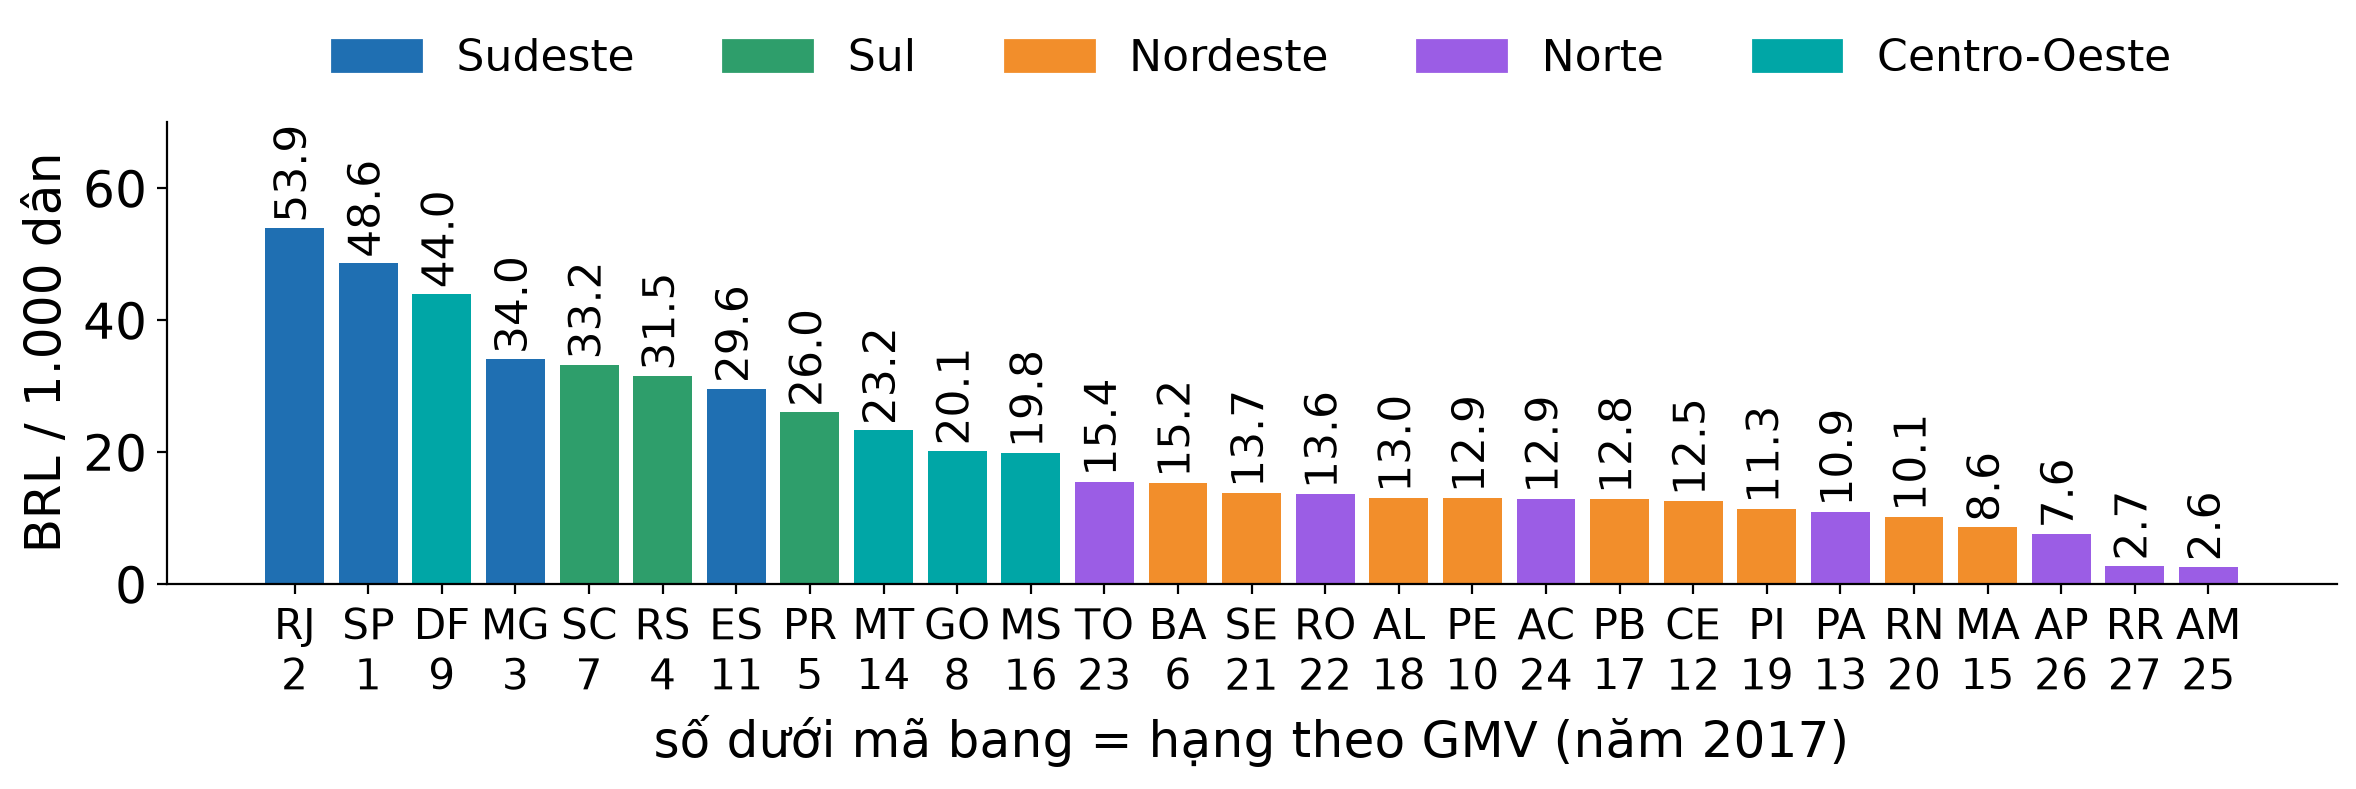
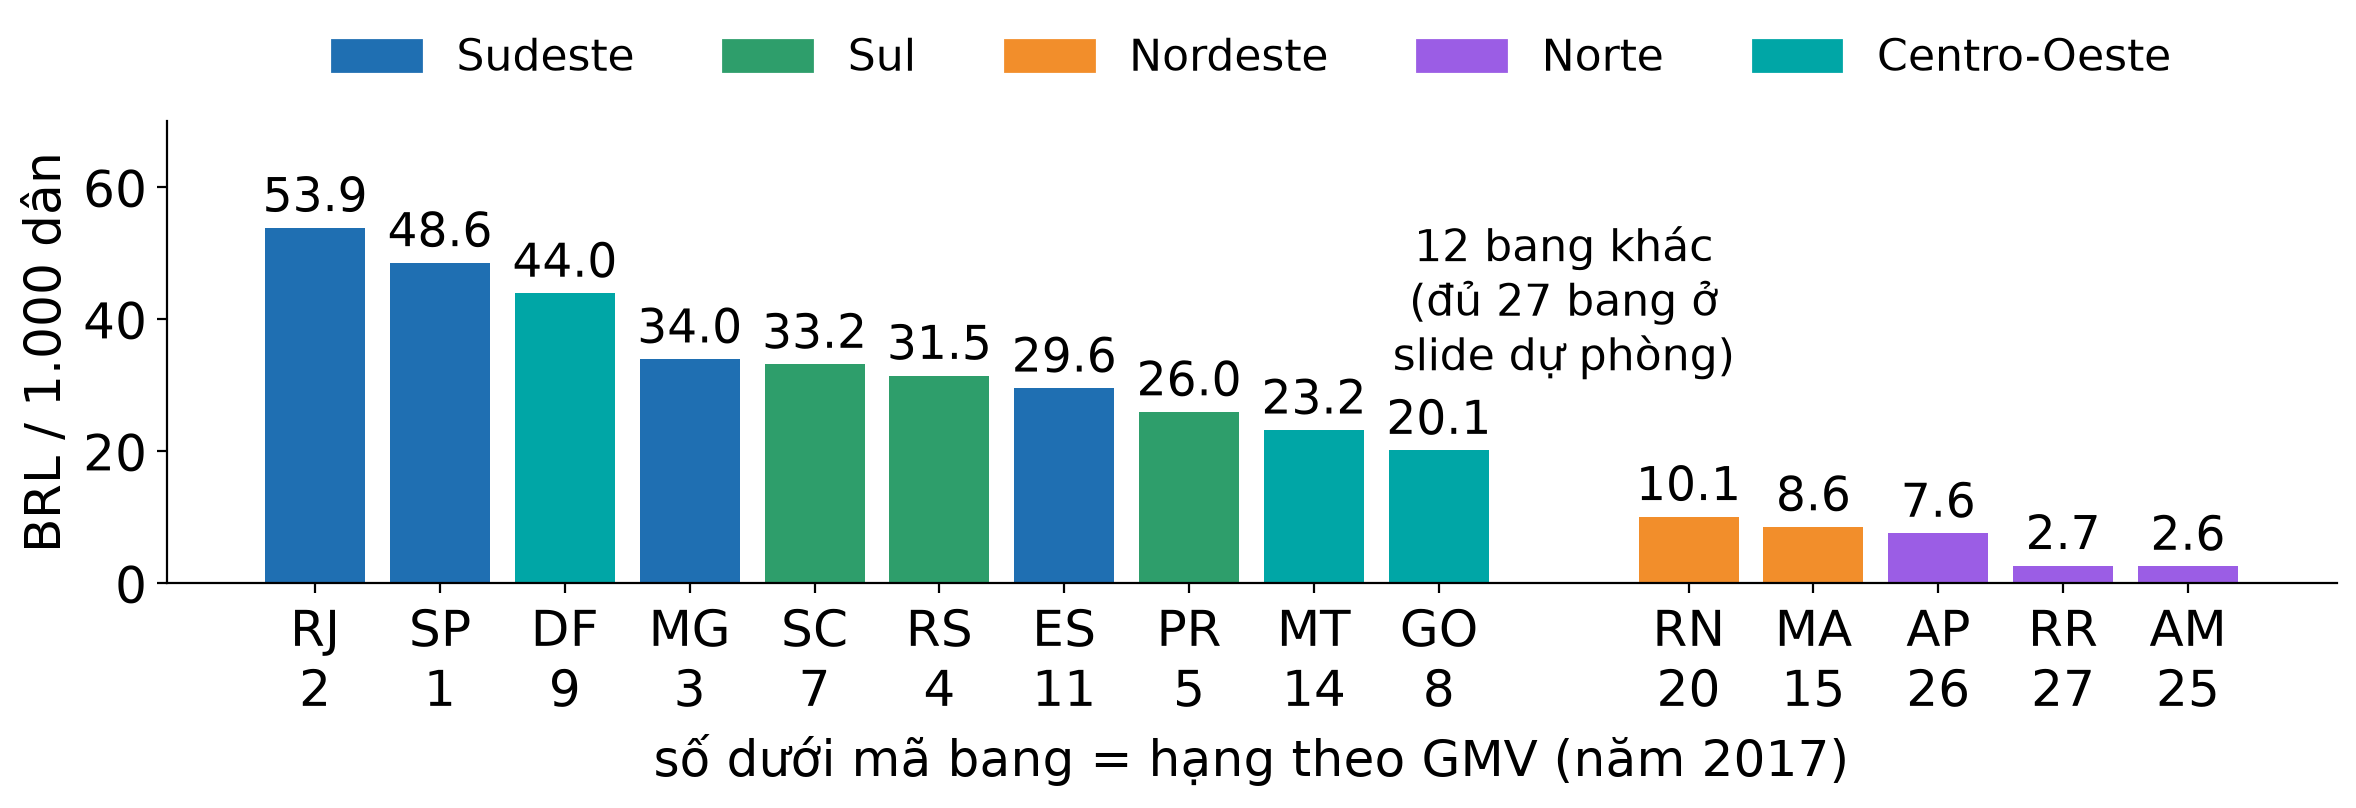
feat(P11d): per-capita chart shows 10 highest and 5 lowest states (all 27 in backup), lineage slide without conclusion bar and taller picture

diff --git a/slides/sections/04-mo-rong.tex b/slides/sections/04-mo-rong.tex
@@ -97,9 +97,9 @@ CRM (\texttt{mql}, \texttt{closed\_deals}) và danh mục & 2.076 & 8.913 \\
 % (A) lineage
 \begin{frame}{Lineage của fact\_order\_item: 13 nguồn Silver qua 5 dimension}
 \muc{5.1 · Lakehouse}
-\AnhChup[0.52\textheight]{5-1_dbt_lineage_fact_tc.png}
-\KetLuan{71/71 phép kiểm thử dbt đạt, gồm 3 phép riêng về tiền, số dòng và SCD2}
-\note{[P10-bước 5] Ảnh Phú chụp từ dbt docs (figures/5-1\_dbt\_lineage\_fact.png, đã cắt: 5-1\_dbt\_lineage\_fact\_tc.png): 13 nguồn Silver, 5 dimension nối tới fact\_order\_item. Ảnh chụp trước khi thêm depends\_on nên chưa vẽ dim\_date; fact nối tới dim\_date qua khoá ngày tính từ mốc thời gian, không join. Hình bốn tầng đầy đủ (18 nguồn Silver, 10 dimension, 6 fact, 4 mart) ở slide dự phòng chương 5. Ảnh dbt test: slide dự phòng chương 5.}
+% cho-phep: R7 ảnh lineage dùng hết chiều cao khung, không có thanh kết luận; kết quả 71/71 test nằm trong ghi chú và slide dự phòng
+\AnhChup[\dimexpr\VungCao-24pt\relax]{5-1_dbt_lineage_fact_tc.png}
+\note{[P10-bước 5] 71/71 phép kiểm thử dbt đạt, gồm 3 phép riêng về tiền, số dòng và SCD2. Ảnh Phú chụp từ dbt docs (figures/5-1\_dbt\_lineage\_fact.png, đã cắt: 5-1\_dbt\_lineage\_fact\_tc.png): 13 nguồn Silver, 5 dimension nối tới fact\_order\_item. Ảnh chụp trước khi thêm depends\_on nên chưa vẽ dim\_date; fact nối tới dim\_date qua khoá ngày tính từ mốc thời gian, không join. Hình bốn tầng đầy đủ (18 nguồn Silver, 10 dimension, 6 fact, 4 mart) ở slide dự phòng chương 5. Ảnh dbt test: slide dự phòng chương 5.}
 \end{frame}
 
 % (B) đối soát
@@ -236,7 +236,7 @@ Không khớp & 719 & -- & 0,5 chưa khớp \\
 \muc{5.2 · Thu thập từ API}
 \HinhLon[0.54\textheight]{5-2_gmv_dau_nguoi_theo_bang_sl.png}
 \KetLuan{RJ 53,90 dẫn đầu; DF hạng 9 theo GMV lên hạng 3; MA tụt từ hạng 15 xuống 24}
-\note{[S121] Dân số là ước tính IBGE 2017, GMV theo bang của khách. 2017: RJ 53,90; SP 48,58; DF 43,95; thấp nhất AM 2,58. MA tụt từ hạng 15 xuống 24; PA 13 sang 22; TO lên 23 sang 12. Cả nước 29,42 BRL trên 1.000 dân năm 2017 và 35,21 năm 2018. Distrito Federal: hạng 9 theo GMV, hạng 3 theo đầu người. Maranhão tụt từ hạng 15 xuống 24. Spearman giữa hai thứ hạng: 0,78. Số dưới mã bang trên hình là hạng theo GMV.}
+\note{[S121] Dân số là ước tính IBGE 2017, GMV theo bang của khách. 2017: RJ 53,90; SP 48,58; DF 43,95; thấp nhất AM 2,58. MA tụt từ hạng 15 xuống 24; PA 13 sang 22; TO lên 23 sang 12. Cả nước 29,42 BRL trên 1.000 dân năm 2017 và 35,21 năm 2018. Distrito Federal: hạng 9 theo GMV, hạng 3 theo đầu người. Maranhão tụt từ hạng 15 xuống 24. Spearman giữa hai thứ hạng: 0,78. Số dưới mã bang trên hình là hạng theo GMV. Hình chỉ vẽ 10 bang cao nhất và 5 bang thấp nhất; đủ 27 bang ở slide dự phòng chương 5.}
 \end{frame}
 
 % (A) danh nghĩa so với thực

diff --git a/scripts/p9_results.py b/scripts/p9_results.py
@@ -229,7 +229,23 @@ else:
 ax.set_title("Bang nào mua nhiều nhất theo đầu người?", fontsize=11)
 from matplotlib.patches import Patch
 ax.legend(handles=[Patch(color=c, label=l) for l, c in (("Sudeste", BLUE_D), ("Sul", GREEN_D), ("Nordeste", ORANGE_D), ("Norte", "#9B5DE5"), ("Centro-Oeste", "#00A6A6"))], fontsize=8, loc="lower right")
-save(fig, "5-2_gmv_dau_nguoi_theo_bang.png")
+if SLIDE:
+    save(fig, "5-2_gmv_dau_nguoi_theo_bang_full.png")        # all 27 states -> backup slide (written as *_full_sl.png)
+    fig, ax = plt.subplots(figsize=(7.6, 7.2))               # projector main figure: the 10 highest and the 5 lowest states
+    pick = list(range(10)) + list(range(len(dd) - 5, len(dd)))
+    xs_ = list(range(10)) + [11 + i for i in range(5)]
+    ax.bar(xs_, dd.gmv_per_1000_pop.iloc[pick], color=[colors[i] for i in pick])
+    ax.set_xticks(xs_, labels=[f"{dd.state_code.iloc[i]}\n{dd.rank_gmv.iloc[i]}" for i in pick])
+    for xi, i in zip(xs_, pick):
+        ax.text(xi, dd.gmv_per_1000_pop.iloc[i] + 0.8, f"{dd.gmv_per_1000_pop.iloc[i]:.1f}", ha="center", va="bottom", fontsize=17)
+    ax.text(10, 30, "12 bang khác\n(đủ 27 bang ở\nslide dự phòng)", ha="center", va="bottom", fontsize=16)
+    ax.set_ylabel("BRL / 1.000 dân")
+    ax.set_xlabel("số dưới mã bang = hạng theo GMV (năm 2017)")
+    ax.set_ylim(0, 70)
+    ax.legend(handles=[Patch(color=c, label=l) for l, c in (("Sudeste", BLUE_D), ("Sul", GREEN_D), ("Nordeste", ORANGE_D), ("Norte", "#9B5DE5"), ("Centro-Oeste", "#00A6A6"))])
+    save(fig, "5-2_gmv_dau_nguoi_theo_bang.png")
+else:
+    save(fig, "5-2_gmv_dau_nguoi_theo_bang.png")
 
 city = q("SELECT * FROM mart_market.v_gmv_per_capita_city WHERE year = 2017 AND population >= 100000 ORDER BY gmv_per_1000_pop DESC")
 md += ["", "### Đô thị từ 100 nghìn dân, 2017: 8 đô thị cao nhất theo GMV/1.000 dân", "", "| Đô thị | Bang | Dân số | GMV | GMV / 1.000 dân | Hạng GMV |", "| --- | --- | ---: | ---: | ---: | ---: |"]

diff --git a/slides/sections/99-du-phong.tex b/slides/sections/99-du-phong.tex
@@ -297,6 +297,12 @@ Chạy thử (3.000 sự kiện đầu) & 3.000 & 541 \\
 \note{[P11-dự phòng 5.1] Hình vẽ bằng lakehouse/scripts/gen\_lineage.py từ dbt/target/manifest.json. Fact nối tới dim\_date qua depends\_on vì khoá ngày tính từ mốc thời gian, không join.}
 \end{frame}
 
+\begin{frame}[noprogressbar,noframenumbering]{Đủ 27 bang: GMV trên 1.000 dân từ 53,90 (RJ) xuống 2,58 (AM)}
+\HinhLon[0.54\textheight]{5-2_gmv_dau_nguoi_theo_bang_full_sl.png}
+\KetLuan{Số dưới mã bang là hạng theo GMV; DF hạng 9 theo GMV, hạng 3 theo đầu người}
+\note{[P11-dự phòng 5.2] Bản đầy đủ 27 bang của biểu đồ ở slide GMV trên 1.000 dân (dân số là ước tính IBGE 2017). Spearman giữa hai thứ hạng: 0,78.}
+\end{frame}
+
 \begin{frame}[noprogressbar,noframenumbering]{Dung sai: hai chỗ được nới và một ngoại lệ có giải thích}
 \begin{itemize}
   \item \texttt{late\_rate}, \texttt{avg\_review\_score}: làm tròn 4 chữ số thập phân ở cả hai phía

diff --git a/handoff/2026-11-20-P11-slide.md b/handoff/2026-11-20-P11-slide.md
@@ -85,3 +85,8 @@ Ba lỗi tiêu biểu mỗi file (mỗi lỗi một mã quy tắc khác nhau):
 - **Slide GMV trên 1.000 dân:** hình đứng một mình, ba ý chuyển vào `\KetLuan` và `\note`. Biểu đồ bản chiếu vẽ thành 27 cột đứng (hạng theo GMV ghi dưới mã bang), 14 x 3,0; vì vẫn bị giới hạn theo chiều cao khung, hình rộng khoảng 65% trang.
 - **`slides_overleaf.zip`** nay có `slides/QUY-TAC-TRINH-BAY.md` (và `bocuc.sty`); không có `slides/mau/`.
 - `kiem_tra_slide.py --strict` 0 LỖI, 0 NÊN cho `00`, `04`, `05`; không còn `Overfull \vbox`.
+
+## P11d (20/11/2026)
+- **Slide GMV trên 1.000 dân:** chỉ vẽ 10 bang cao nhất và 5 bang thấp nhất (có ghi "12 bang khác, đủ 27 bang ở slide dự phòng" ngay trong hình); bản 27 bang (`5-2_gmv_dau_nguoi_theo_bang_full_sl.png`) nằm ở slide dự phòng chương 5 trong `99-du-phong.tex`. Cả hai sinh bằng `python scripts/p9_results.py --slide`.
+- **Slide lineage `fact_order_item`:** bỏ `\KetLuan` (có chú thích `% cho-phep: R7`), ảnh lấy chiều cao `\VungCao` trừ 24 pt (dùng đúng `\VungCao` thì thừa 21 pt, `Overfull \vbox`); kết quả 71/71 test chuyển vào `\note`.
+- `kiem_tra_slide.py --strict` 0 LỖI, 0 NÊN cho `00`, `04`, `05`; không còn `Overfull \vbox`; `slides_overleaf.zip` (155 file) và `slides/main.pdf` (203 trang) tạo lại.
